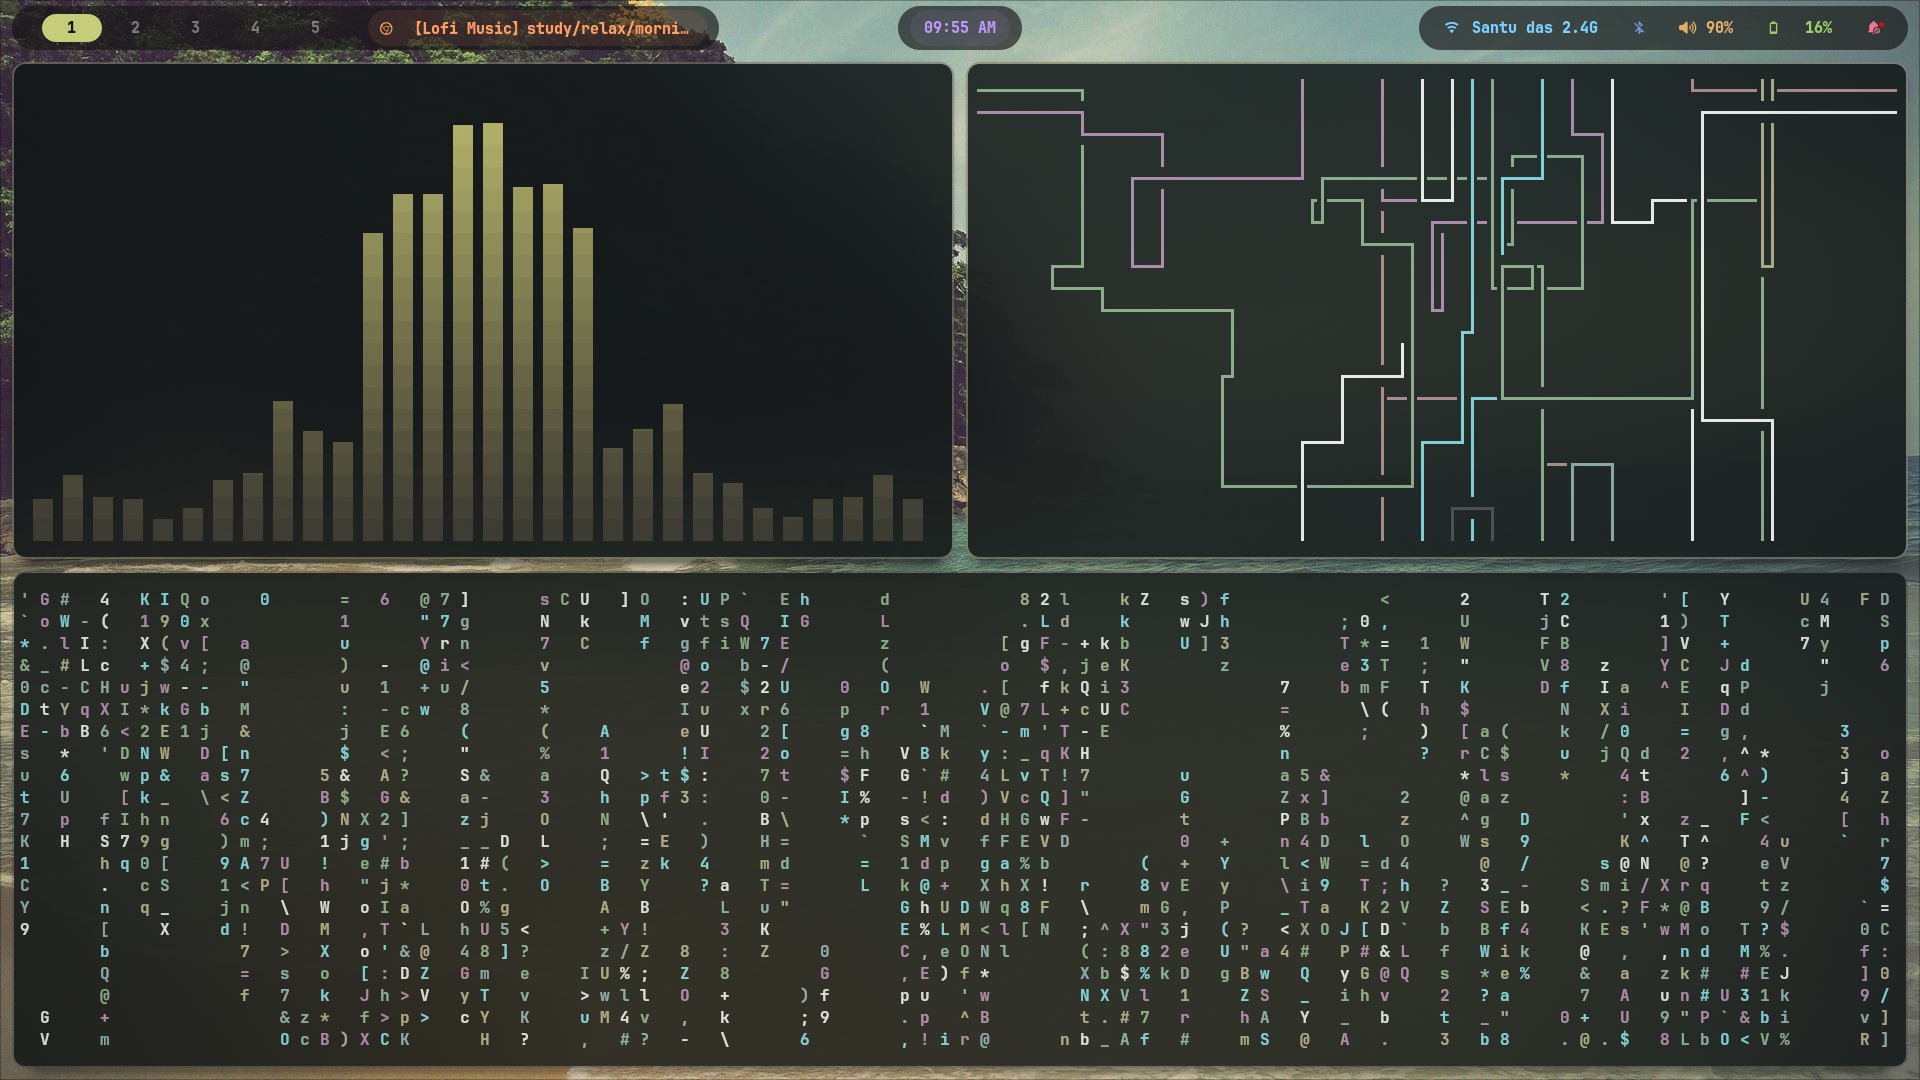
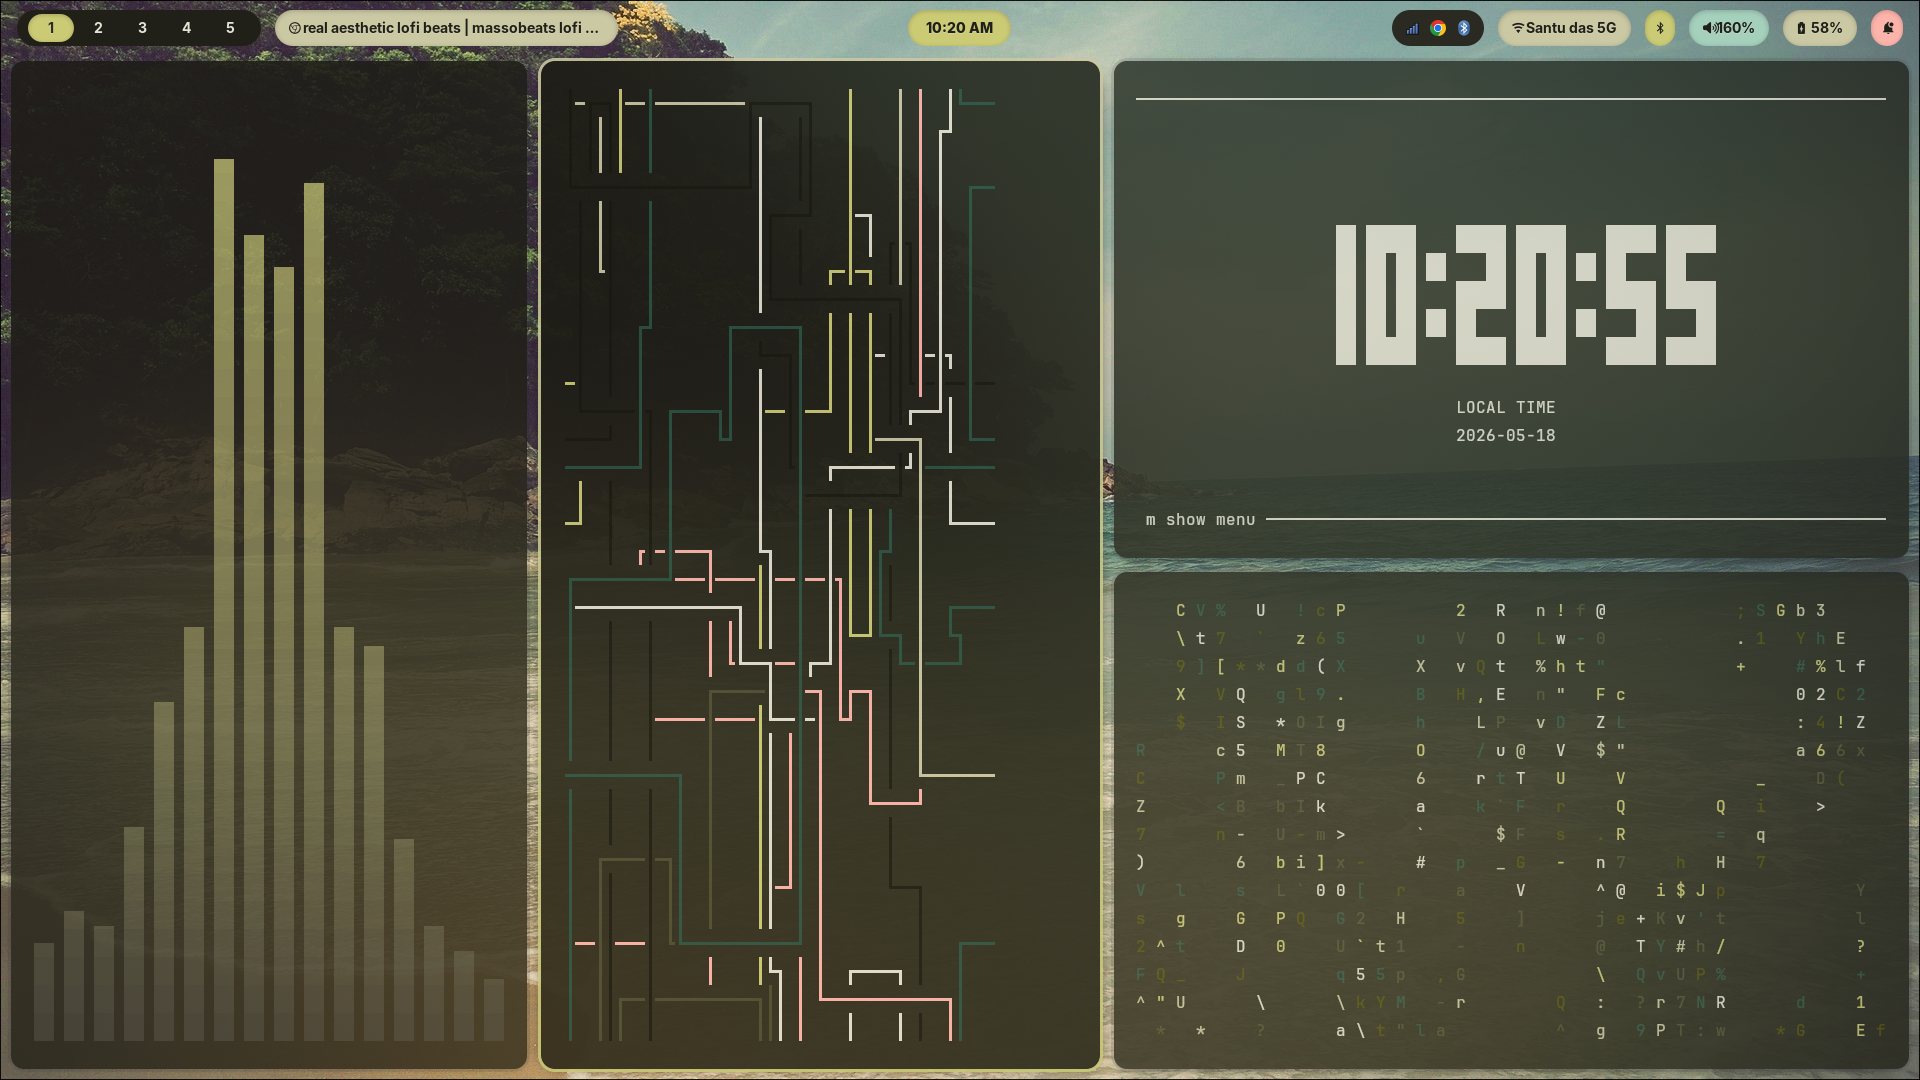
feat: implement rofi clipboard menu using cliphist and wl-clipboard

diff --git a/README.md b/README.md
@@ -1,125 +1,86 @@
-<p align="center">
-  <img src="screenshots/main.png" alt="main desktop preview" />
-</p>
+# velvet noir
+### a glass-forward, dynamically themed hyprland experience.
 
-<h1 align="center">velvet noir.</h1>
-<p align="center">
-  an elegant, dynamic, dark-glass hyprland workspace.<br>
-  managed with chezmoi. real-time color generation by matugen.
-</p>
+![hero](/screenshots/main.png)
+*main workspace: blurred terminal, floating bar, and dynamic colors.*
 
-<p align="center">
-  <a href="#about">about</a> •
-  <a href="#features">features</a> •
-  <a href="#gallery">gallery</a> •
-  <a href="#keybinds">keybinds</a> •
-  <a href="#installation">installation</a>
-</p>
+[about](#about) • [gallery](#gallery) • [features](#features) • [install](#install)
 
-<br>
+---
 
-## about
+### about
+velvet noir is a minimalist, dark-glass rice built for speed and aesthetics. it uses **matugen** to generate system-wide color palettes from your wallpaper on the fly, managed entirely by **chezmoi**. 
 
-velvet noir is a deeply integrated, highly polished desktop environment built on wayland. it relies on matugen to extract colors from your current wallpaper and instantly injects them into every component of the system. no restarts, no logouts. 
+---
 
-everything from the terminal prompt to the notification center repaints dynamically, producing a cohesive, premium aesthetic.
+### gallery
 
-## features
+| waybar | fastfetch |
+| :---: | :---: |
+| ![](/screenshots/waybar.png) | ![](/screenshots/fastfetch.png) |
+| *floating pill modules* | *minimal system info* |
 
-* **hyprland** — dwindle tiling, custom elastic bezier curves (whoosh-zap transitions), 4-pass frosted blur, and smooth workspace gestures.
-* **waybar** — 44px top bar. floating pills with solid matugen backgrounds, debossed text, and embossed shadows.
-* **rofi** — dynamic, expanding listview with snappy pop-in transitions. includes a visual grid-based wallpaper picker.
-* **kitty & starship** — glass-blurred terminal (85% opacity) with a tokyo night-inspired dynamic block prompt using powerline arrows.
-* **ecosystem** — fully themed swaync (notifications), yazi (files), btop (monitor), wlogout (power), and cava (visualizer).
+| terminal | swaync |
+| :---: | :---: |
+| ![](/screenshots/terminal.png) | ![](/screenshots/swaync.png) |
+| *85% kitty glass* | *blurred notification center* |
 
-## gallery
+| yazi | btop |
+| :---: | :---: |
+| ![](/screenshots/yazi.png) | ![](/screenshots/btop.png) |
+| *terminal file manager* | *resource monitor* |
 
-<p align="center">
-  <img src="screenshots/waybar.png" width="49%" alt="waybar detail" />
-  <img src="screenshots/fastfetch.png" width="49%" alt="fastfetch and starship" />
-</p>
-<p align="center">
-  <img src="screenshots/terminal.png" width="49%" alt="full terminal layout" />
-  <img src="screenshots/swaync.png" width="49%" alt="swaync control center" />
-</p>
-<p align="center">
-  <img src="screenshots/yazi.png" width="49%" alt="yazi file manager" />
-  <img src="screenshots/btop.png" width="49%" alt="btop system monitor" />
-</p>
+---
 
-## window rules
+### features
 
-* `kitty`, `firefox`, `zen`, `code`, `discord`, `thunar` — custom opacity parameters with glass blur effects.
-* `pavucontrol`, `blueman`, file dialogs — automatically float and center perfectly.
-* `picture-in-picture` — floats and pins to all workspaces.
+- **hyprland**: 14px rounding, 4-pass blur, and `whooshZap` animations.
+- **waybar**: 44px top bar with debossed pill modules and hover-lift effects.
+- **starship**: tokyo-night powerline prompt with dynamic matugen colors.
+- **rofi**: snappy, expanding glass launcher with blurred backgrounds.
+- **kitty**: jetbrainsmono nerd font, 85% opacity, and 64-level blur.
+- **automation**: single-command theme syncing via `theme-switch.sh`.
 
-## keybinds
+---
 
-```text
-super + enter           open terminal
-super + space           open launcher
-super + q               close focused window
-super + f               toggle fullscreen
-super + v               toggle float
-super + l               open power menu
-super + ctrl + l        lock screen
+### details
 
-super + w               open wallpaper picker
-super + e               open file manager
-super + d               open discord
-
-super + h/j/k/l         focus left/down/up/right
-super + shift + h/j/k/l move window
-super + ctrl + h/j/k/l  resize active window (±40px)
-super + 1–9             switch to workspace
-super + shift + 1–9     send window to workspace
-
-print                   screenshot (full screen)
-super + shift + s       screenshot (select region)
-super + ctrl + s        screenshot (focused window)
-
-3-finger swipe          switch workspace left/right
-super + scroll          cycle through workspaces
+**window rules**
+```conf
+# glass & layout
+windowrule = opacity 0.88 0.82, kitty
+windowrule = float, pavucontrol|blueman-manager
+layerrule = blur, rofi|swaync
 ```
 
-## installation
+**core binds**
+```conf
+$mod = SUPER
 
-velvet noir features a fully automated, non-interactive installer script that deploys dependencies, configurations, and bootstraps the initial color palette.
+bind = $mod, RETURN, exec, kitty
+bind = $mod, SPACE,  exec, rofi -show drun
+bind = $mod, W,      exec, wallpaper-picker
+bind = $mod, Q,      killactive
+bind = $mod, E,      exec, yazi
+bind = $mod, D,      exec, discord
+bind = $mod, C,      exec, clipboard menu
+```
 
+---
+
+### install
+
+**01. bootstrap (arch only)**
 ```bash
-# clone the repository and run the installer
 git clone https://github.com/programmersd21/velvet.git
-cd velvet
-chmod +x install.sh
-./install.sh
+cd velvet && chmod +x dot_config/install.sh && ./dot_config/install.sh
 ```
 
-or install manually using chezmoi:
-
+**02. sync colors**
 ```bash
-sh -c "$(curl -fsLS get.chezmoi.io)"
-chezmoi init --apply https://github.com/programmersd21/velvet.git
-```
-
-### post-installation
-
-if installing manually, you can initialize the dynamic color scheme by placing a wallpaper at `~/.config/wallpapers/others/default.jpg` and running the theme switcher:
-
-```bash
+# pick a wallpaper to generate the palette
 ~/.config/scripts/theme-switch.sh ~/.config/wallpapers/others/default.jpg
 ```
 
-this commands the matugen engine to generate all color files, ensuring every component renders perfectly on first boot.
-
-### dependencies
-```text
-hyprland waybar rofi-wayland kitty swaync matugen swww starship fastfetch cava btop yazi wlogout hyprshot hyprlock hypridle brightnessctl playerctl wpctl nm-applet blueman polkit-gnome
-```
-
-### aesthetics
-* **fonts** — jetbrainsmono nerd font, inter
-* **gtk** — adw-gtk3-dark, papirus-dark, bibata-modern-classic
-
-<br>
-
-<p align="center"><sub>velvet noir · <a href="https://github.com/programmersd21">github</a></sub></p>
+---
+<p align="center">voided by <a href="https://github.com/programmersd21">programmersd21</a></p>